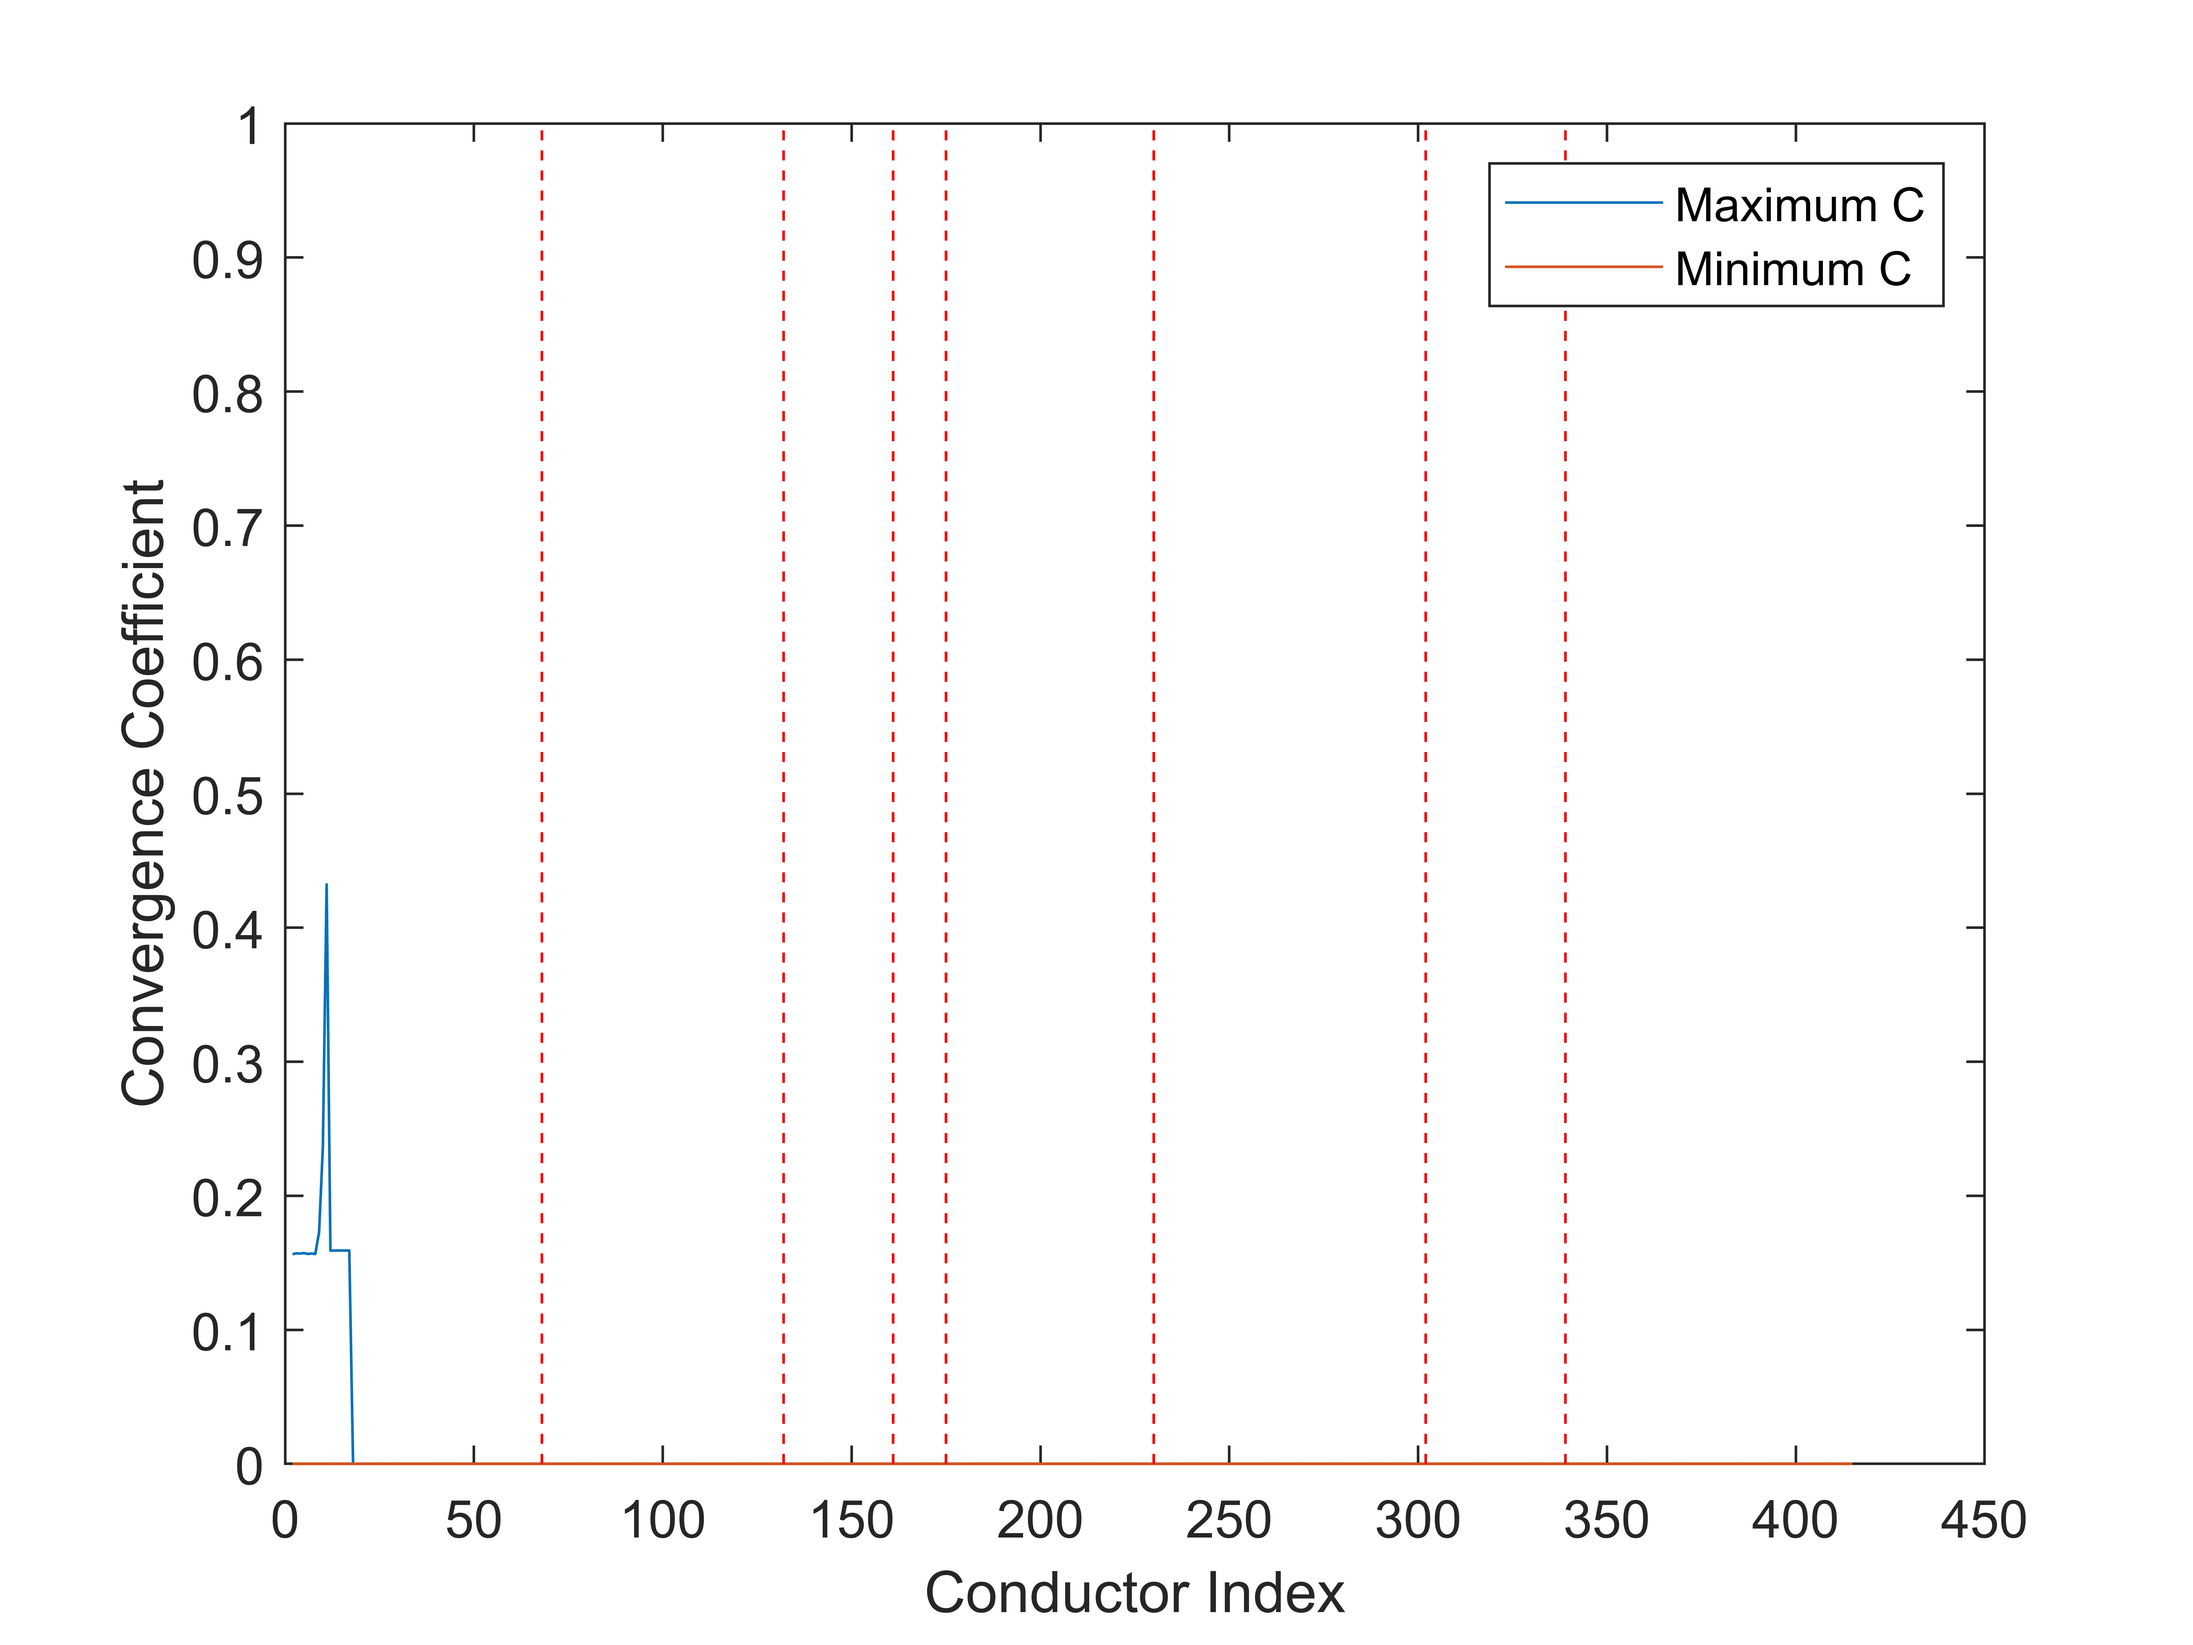
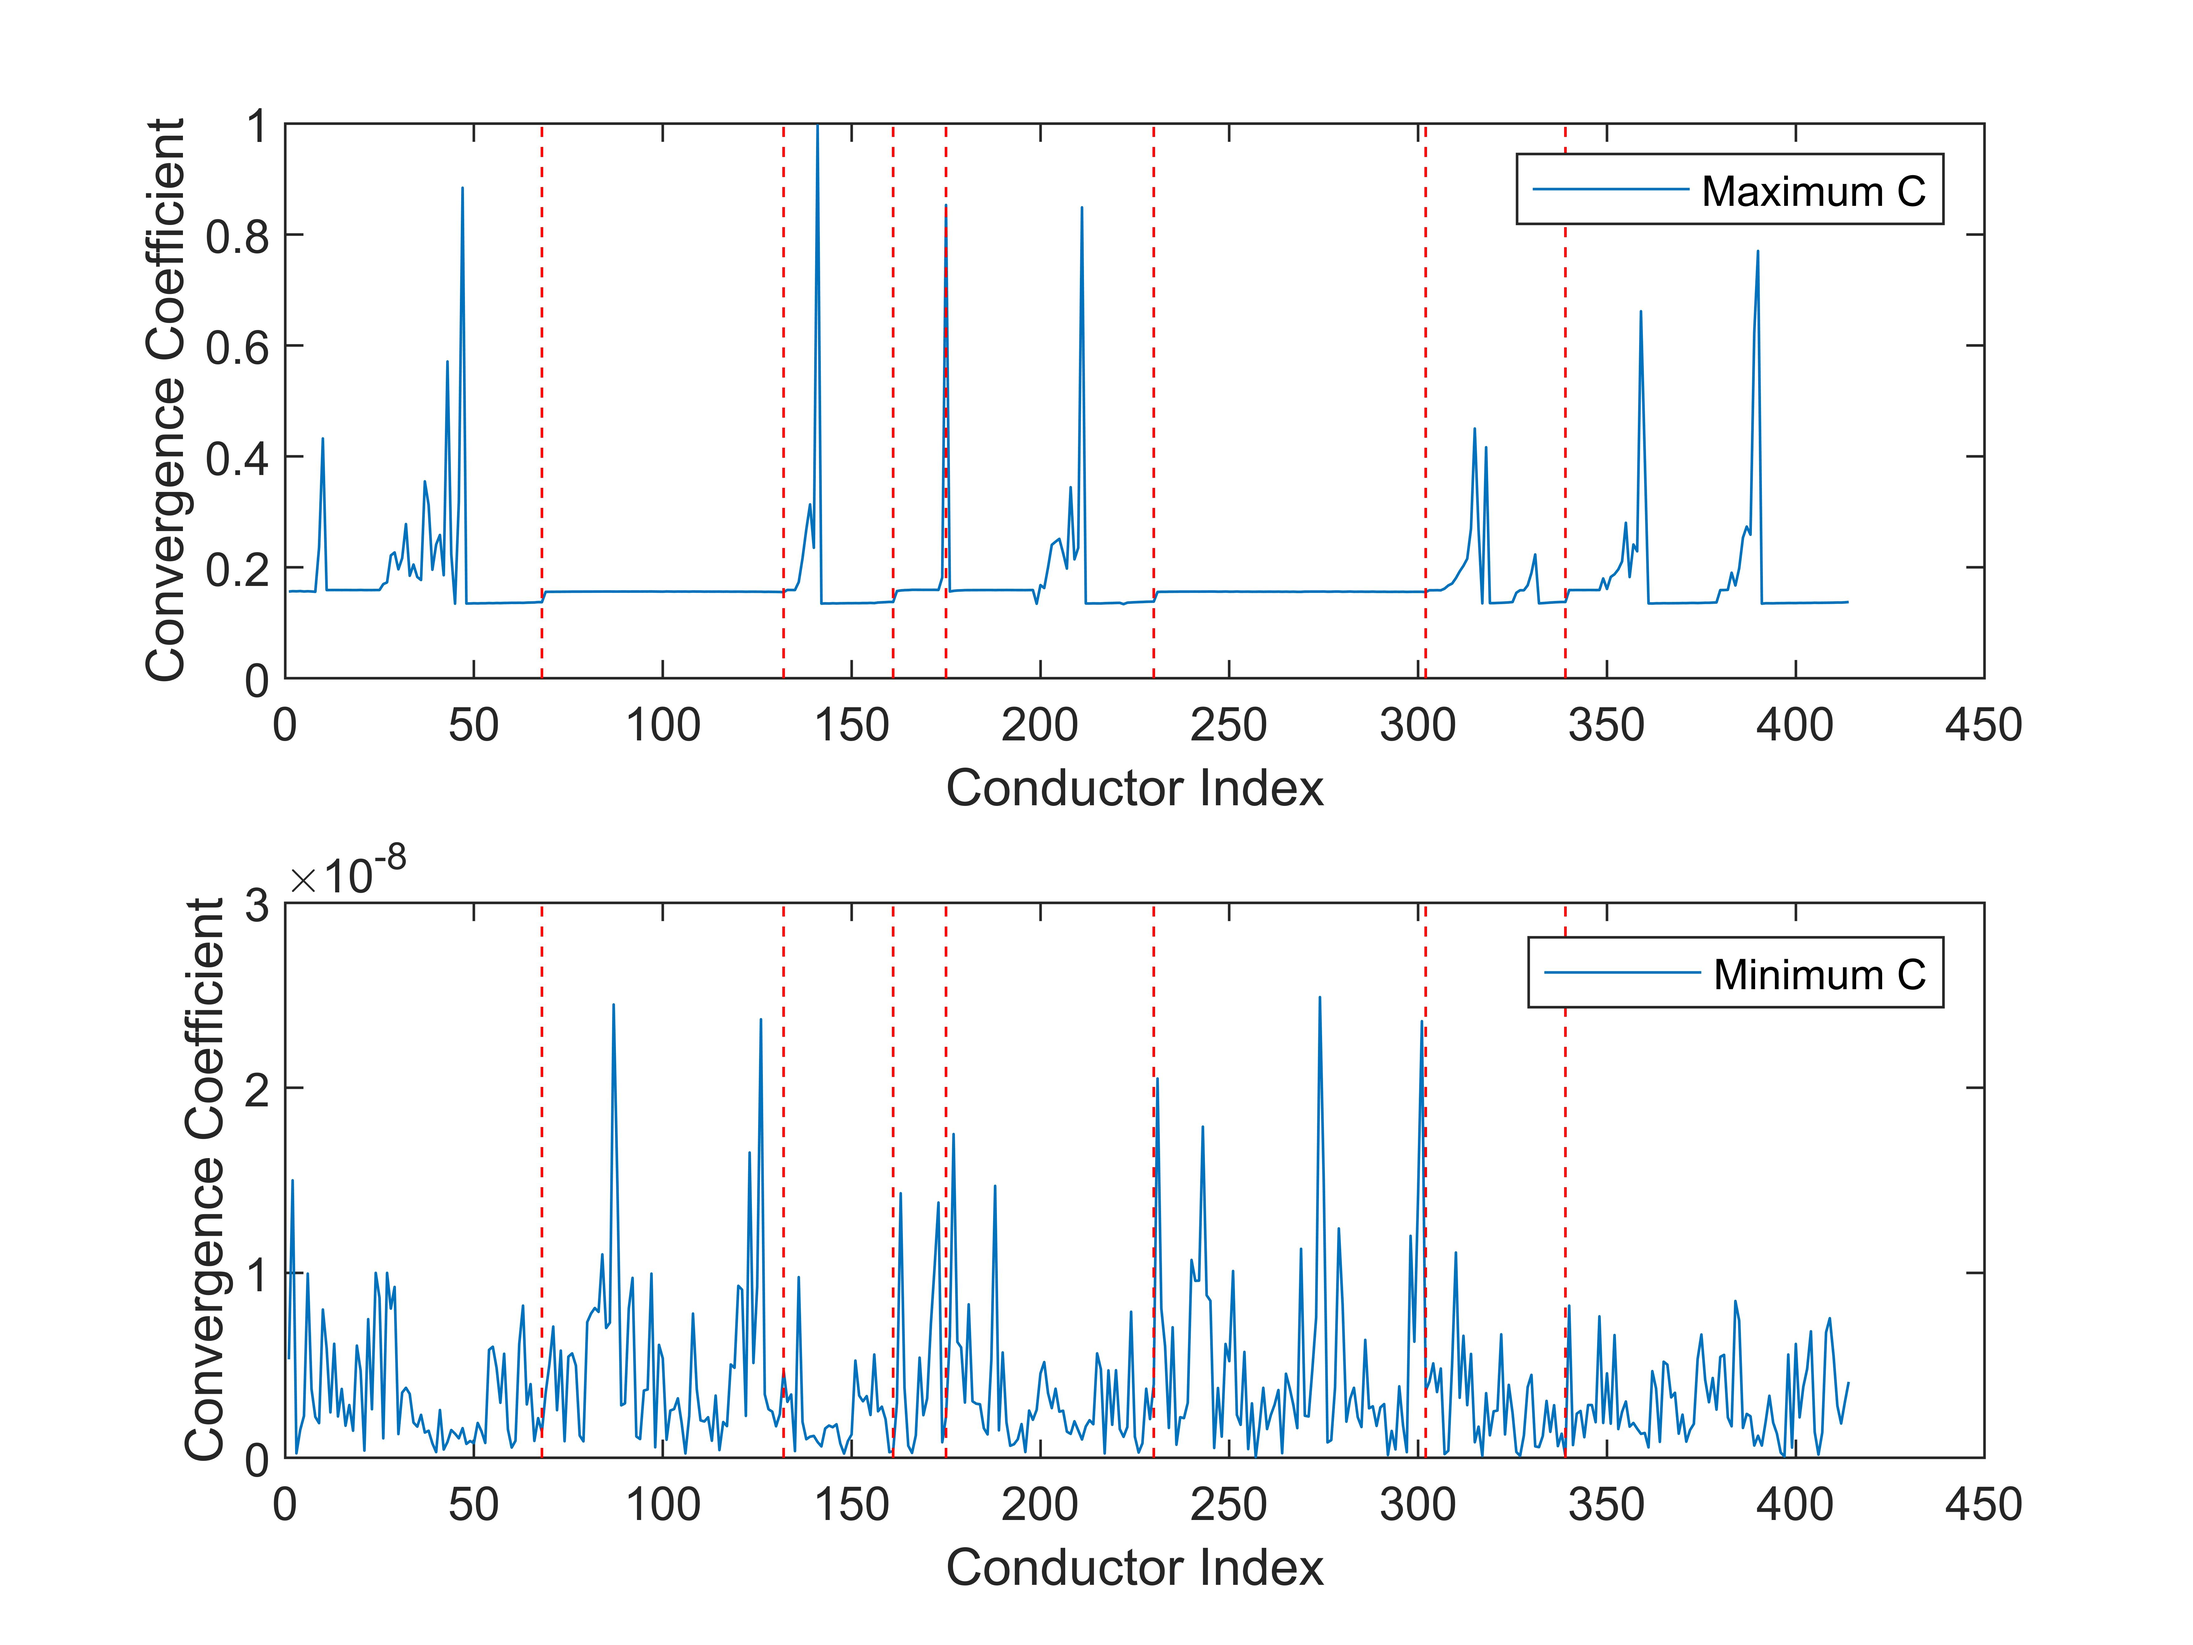
703

diff --git a/importfile46.m b/importfile46.m
@@ -1,0 +1,43 @@
+function conductorDataResults = importfile46(filename, dataLines)
+%IMPORTFILE46 Import data from a text file
+%  CONDUCTORDATARESULTS = IMPORTFILE46(FILENAME) reads data from text
+%  file FILENAME for the default selection.  Returns the data as a table.
+%
+%  CONDUCTORDATARESULTS = IMPORTFILE46(FILE, DATALINES) reads data for
+%  the specified row interval(s) of text file FILENAME. Specify
+%  DATALINES as a positive scalar integer or a N-by-2 array of positive
+%  scalar integers for dis-contiguous row intervals.
+%
+%  Example:
+%  conductorDataResults = importfile46("C:\Users\ctc\Documents\GitHub\Chapter3\conductorDataResults.csv", [2, Inf]);
+%
+%  See also READTABLE.
+%
+% Auto-generated by MATLAB on 03-Jul-2019 13:10:50
+
+%% Input handling
+
+% If dataLines is not specified, define defaults
+if nargin < 2
+    dataLines = [2, Inf];
+end
+
+%% Setup the Import Options
+opts = delimitedTextImportOptions("NumVariables", 29);
+
+% Specify range and delimiter
+opts.DataLines = dataLines;
+opts.Delimiter = ",";
+
+% Specify column names and types
+opts.VariableNames = ["CodeWord", "Size", "Stranding", "IndDiamAl", "IndDiamSt", "DiamStlCore", "DiamCompleteCable", "Weightper1000ftAl", "Weightper1000ftStl", "Weightper1000ftTotal", "Al", "Stl", "RatedStrength", "ResistanceDCLowdegc", "ResistanceACHighdegc", "LowTemp", "HighTemp", "MetersperResistanceInterval", "AllowableAmpacity", "Type", "ResistanceACLowdegc", "ResistanceACLowdegcMeter", "ResistanceACHighdegcMeter", "simulated", "convergeCurrent", "lowestRise", "convergenceOrder", "Cmax", "Cmin"];
+opts.VariableTypes = ["string", "double", "categorical", "double", "double", "double", "double", "double", "double", "double", "double", "double", "double", "double", "double", "double", "double", "double", "double", "categorical", "double", "double", "double", "double", "double", "double", "double", "double", "double"];
+opts = setvaropts(opts, 1, "WhitespaceRule", "preserve");
+opts = setvaropts(opts, [1, 3, 20], "EmptyFieldRule", "auto");
+opts.ExtraColumnsRule = "ignore";
+opts.EmptyLineRule = "read";
+
+% Import the data
+conductorDataResults = readtable(filename, opts);
+
+end

diff --git a/Figure3_2.m b/Figure3_2.m
@@ -1,3 +1,5 @@
+clear
+clc
 close all
 
 if(ispc==1)
@@ -8,14 +10,27 @@ elseif(isunix==1)
     foldersource='/mnt/HA/groups/nieburGrp/Shaun/Chapter3/';
 end
 
-conductorData=importfileAB(strcat(foldersource,'conductorData.csv'));
+conductorData=importfile46(strcat(foldersource,'conductorDataResults.csv'));
 [conductorCount,~] = size(conductorData);
 
 cMax=conductorData.Cmax;
 cMin=conductorData.Cmin;
+subplot(2,1,1);
 plot(cMax)
 ylim([0 1])
-hold on
+yL = get(gca,'YLim');
+line([68 68],yL,'LineStyle','--','Color','r');
+line([132 132],yL,'LineStyle','--','Color','r');
+line([161 161],yL,'LineStyle','--','Color','r');
+line([175 175],yL,'LineStyle','--','Color','r');
+line([230 230],yL,'LineStyle','--','Color','r');
+line([302 302],yL,'LineStyle','--','Color','r');
+line([339 339],yL,'LineStyle','--','Color','r');
+
+legend('Maximum C')
+xlabel('Conductor Index')
+ylabel('Convergence Coefficient')
+subplot(2,1,2); 
 plot(cMin)
 yL = get(gca,'YLim');
 line([68 68],yL,'LineStyle','--','Color','r');
@@ -25,7 +40,7 @@ line([175 175],yL,'LineStyle','--','Color','r');
 line([230 230],yL,'LineStyle','--','Color','r');
 line([302 302],yL,'LineStyle','--','Color','r');
 line([339 339],yL,'LineStyle','--','Color','r');
-legend('Maximum C','Minimum C')
+legend('Minimum C')
 xlabel('Conductor Index')
 ylabel('Convergence Coefficient')
 print(gcf,strcat(foldersource,'Figure3_2.jpg'),'-r1200','-djpeg')
